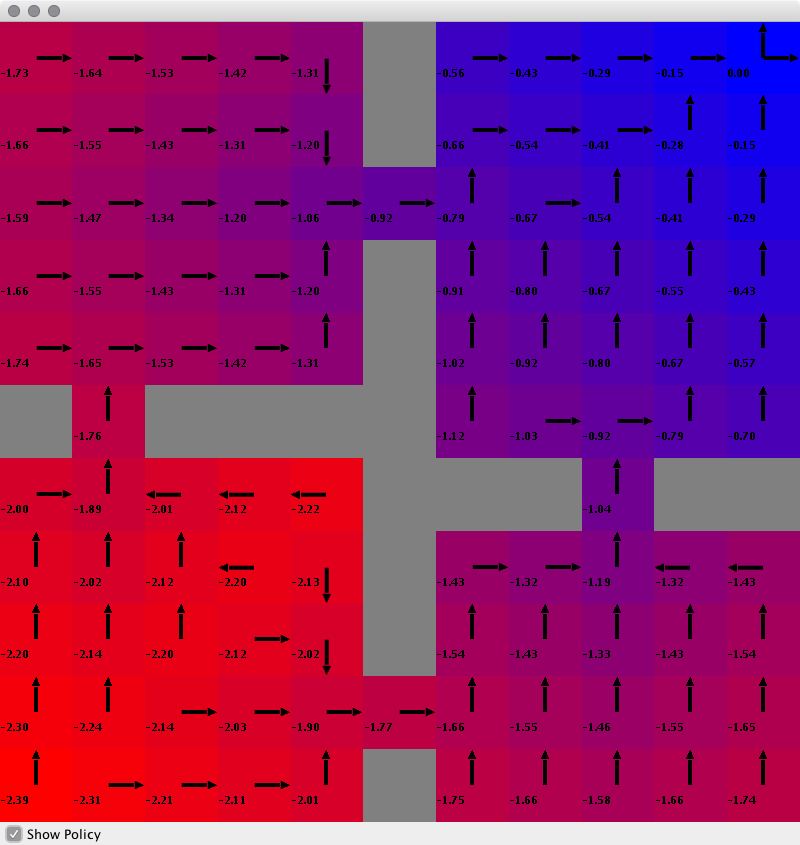
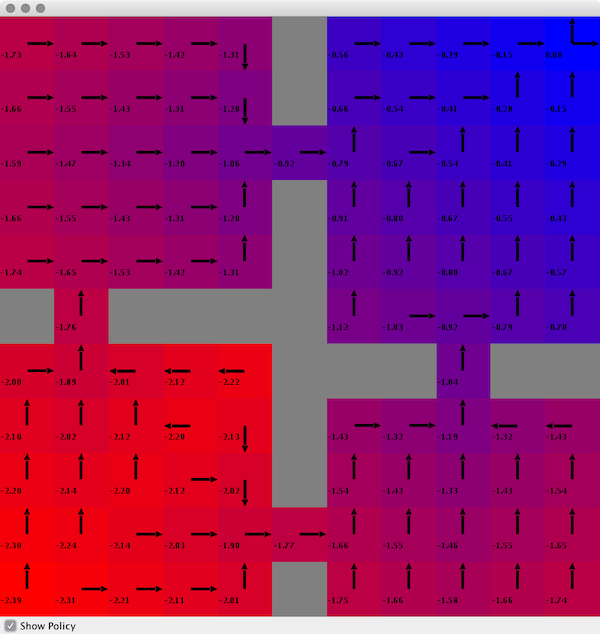
update images and add into planning

diff --git a/README.md b/README.md
@@ -55,12 +55,36 @@ until all values are calculated, the optimal value function is discovered, and p
 throughout the policy (converged/optimal).  Value iteration is simple to implement but much more
 computationally heavy.
 
+Here is the optimal policy for the small grid world:
+
+![large grid world image](resources/policy-gws.png)
+
 
 #### Policy Iteration
+Policy iteration on the other hand involves manipulating the policy directly until the optimal 
+policy is discovered.  Policy iteration is more complicated to implement but converges much quicker
+and therefore less computationally heavy.
 
--- TODO policy
+Below is the optimal policy for the large grid world.  As you can see there is negative reward 
+squares (or hazards) that the optimal policy pushes to avoid.
 
-#### Reinforcement Learning
+![large grid world image](resources/policy-gwl.png)
+
+#### Reinforcement Learning (Q-Learning)
+Reinforcement learning involves leaning on the premise of maximizing a reward, and consequently 
+works in conjunction very well with MDP's.  For this experiment Q-learning was utilized.  Q-learning
+is a model free algorithm, i.e. does not require a model of the environment).  It starts at an 
+initial state with a random assumption of the domain and takes a specific action (based on variou
+'discovery' algorithms), remember the reward that it received.  The Q-learning agent works through
+the domain until a near optimal policy is achieved.  Optimal policy can be achieved but as shown
+below becomes more difficult over time, depending on the discovery algorithm. 
+
+Small grid world results:
+
+![large grid world image](resources/q-policy-gws.png)
+
+Large grid world results:
+
+![large grid world image](resources/q-policy-gws.png)
 
 
--- TODO Q learning image
